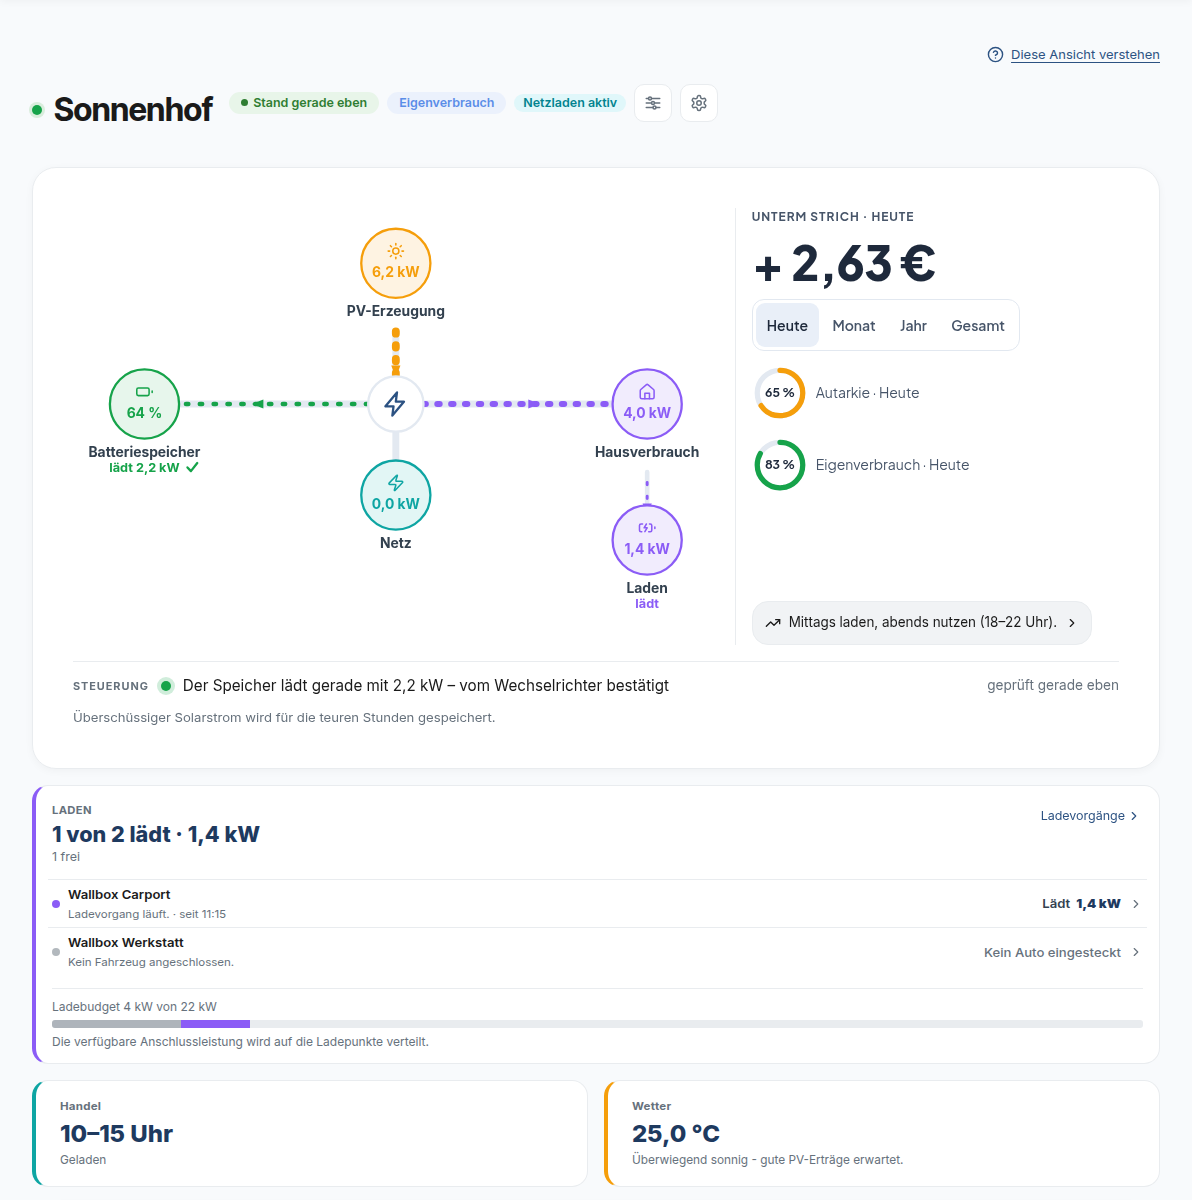
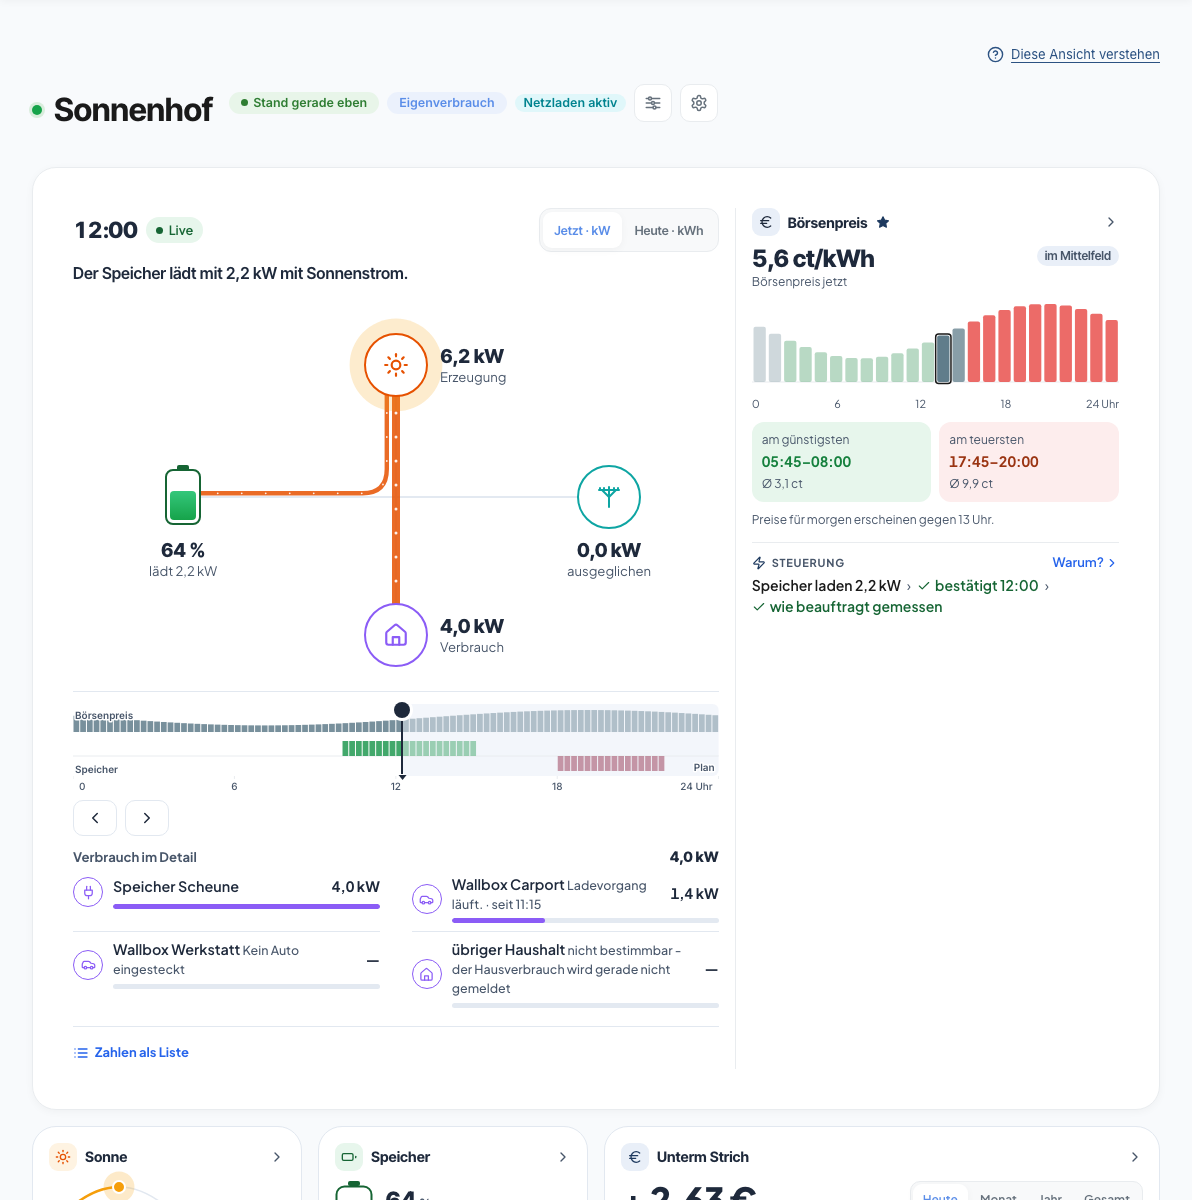
Cockpit: „Verbrauch im Detail“ am Rechner über die volle Breite, Hilfebilder neu
- Unter dem Fluss steht seit dem Leitungsplan nur noch eine Liste (die Erzeugung je Gerät
  steht im Blatt der Sonne); das Raster für zwei Listen ließ am Rechner die rechte Hälfte
  leer. Jetzt füllt die Liste die Spalte, ihre Zeilen stehen in zwei Spalten.
- Die Hilfebilder cockpit, orientierung und orientierung-mobil zeigen die Bühne nach
  Konzept b1. Die Aufnahme „cockpit“ ließ sich schon vorher nicht erzeugen: ihr Anker
  „PV-Erzeugung“ gibt es seit dem Leitungsplan nicht mehr. Anker jetzt Sonnen-Knoten,
  Tagesleiste und Steuerzeile.

diff --git a/frontend/portal/src/components/EnergieBuehne.css b/frontend/portal/src/components/EnergieBuehne.css
@@ -624,12 +624,18 @@ a.vp-eb-zeile {
   margin: 0;
 }
 
-/* Am Rechner: die beiden Listen nebeneinander, Uhr und Satz etwas größer. */
+/* Am Rechner: „Verbrauch im Detail“ über die volle Breite, die Zeilen in zwei
+   Spalten - unter dem Fluss steht nur noch diese eine Liste (die Erzeugung je
+   Gerät steht im Blatt der Sonne); das frühere Raster für zwei Listen ließ die
+   rechte Hälfte leer. Uhr und Satz etwas größer. */
 @media (min-width: 1024px) {
-  .vp-eb-listen {
+  .vp-eb-listen > .vp-eb-liste > ul {
+    display: grid;
     grid-template-columns: repeat(2, minmax(0, 1fr));
-    gap: 32px;
-    align-items: start;
+    column-gap: 32px;
+  }
+  .vp-eb-listen > .vp-eb-liste li:nth-child(2) .vp-eb-zeile {
+    border-top: 0;
   }
   .vp-eb-uhr {
     font-size: 1.4rem;
